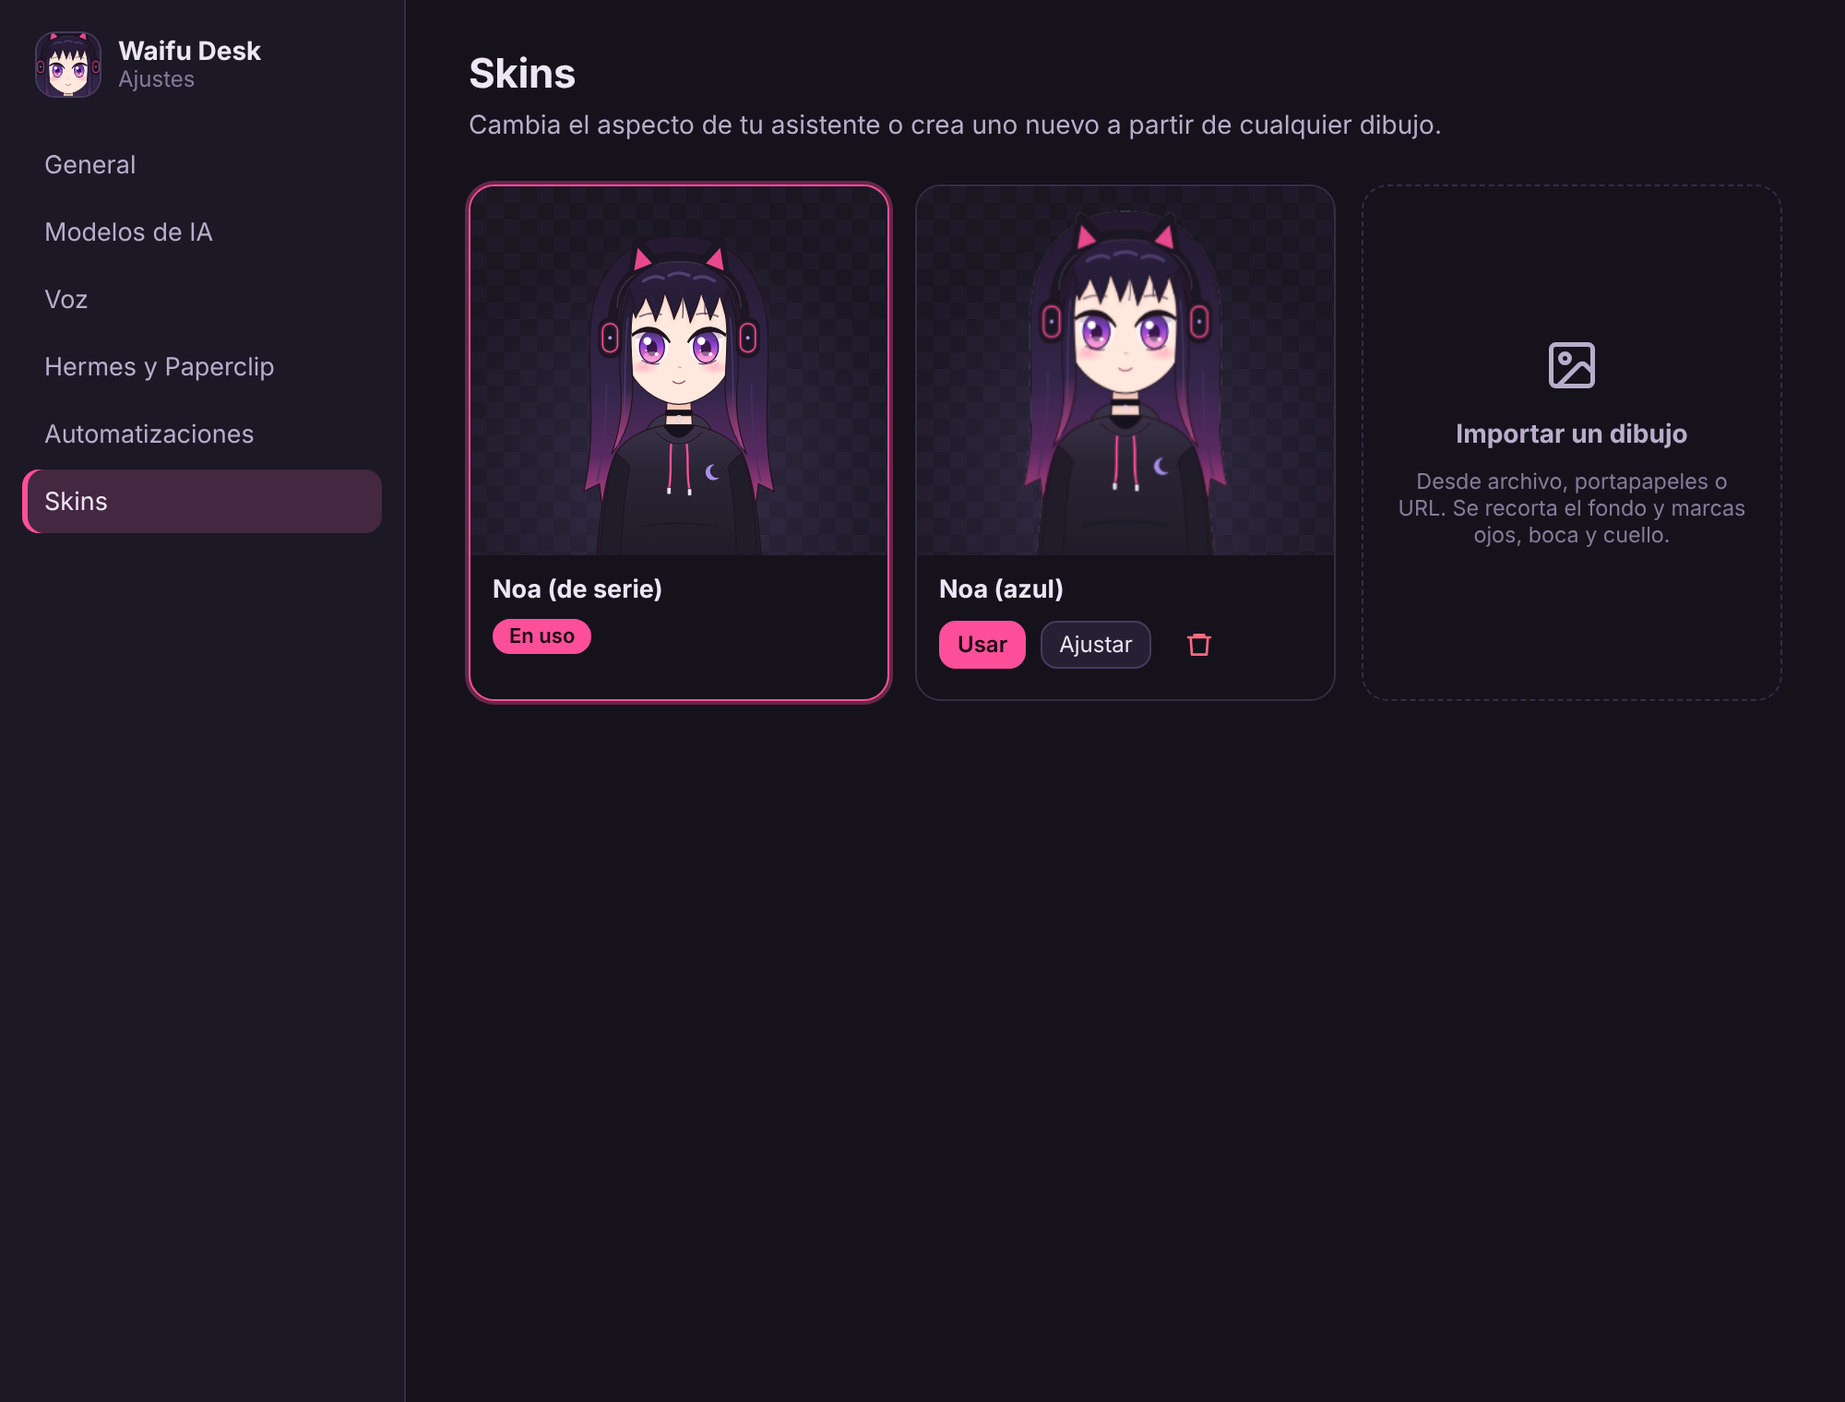
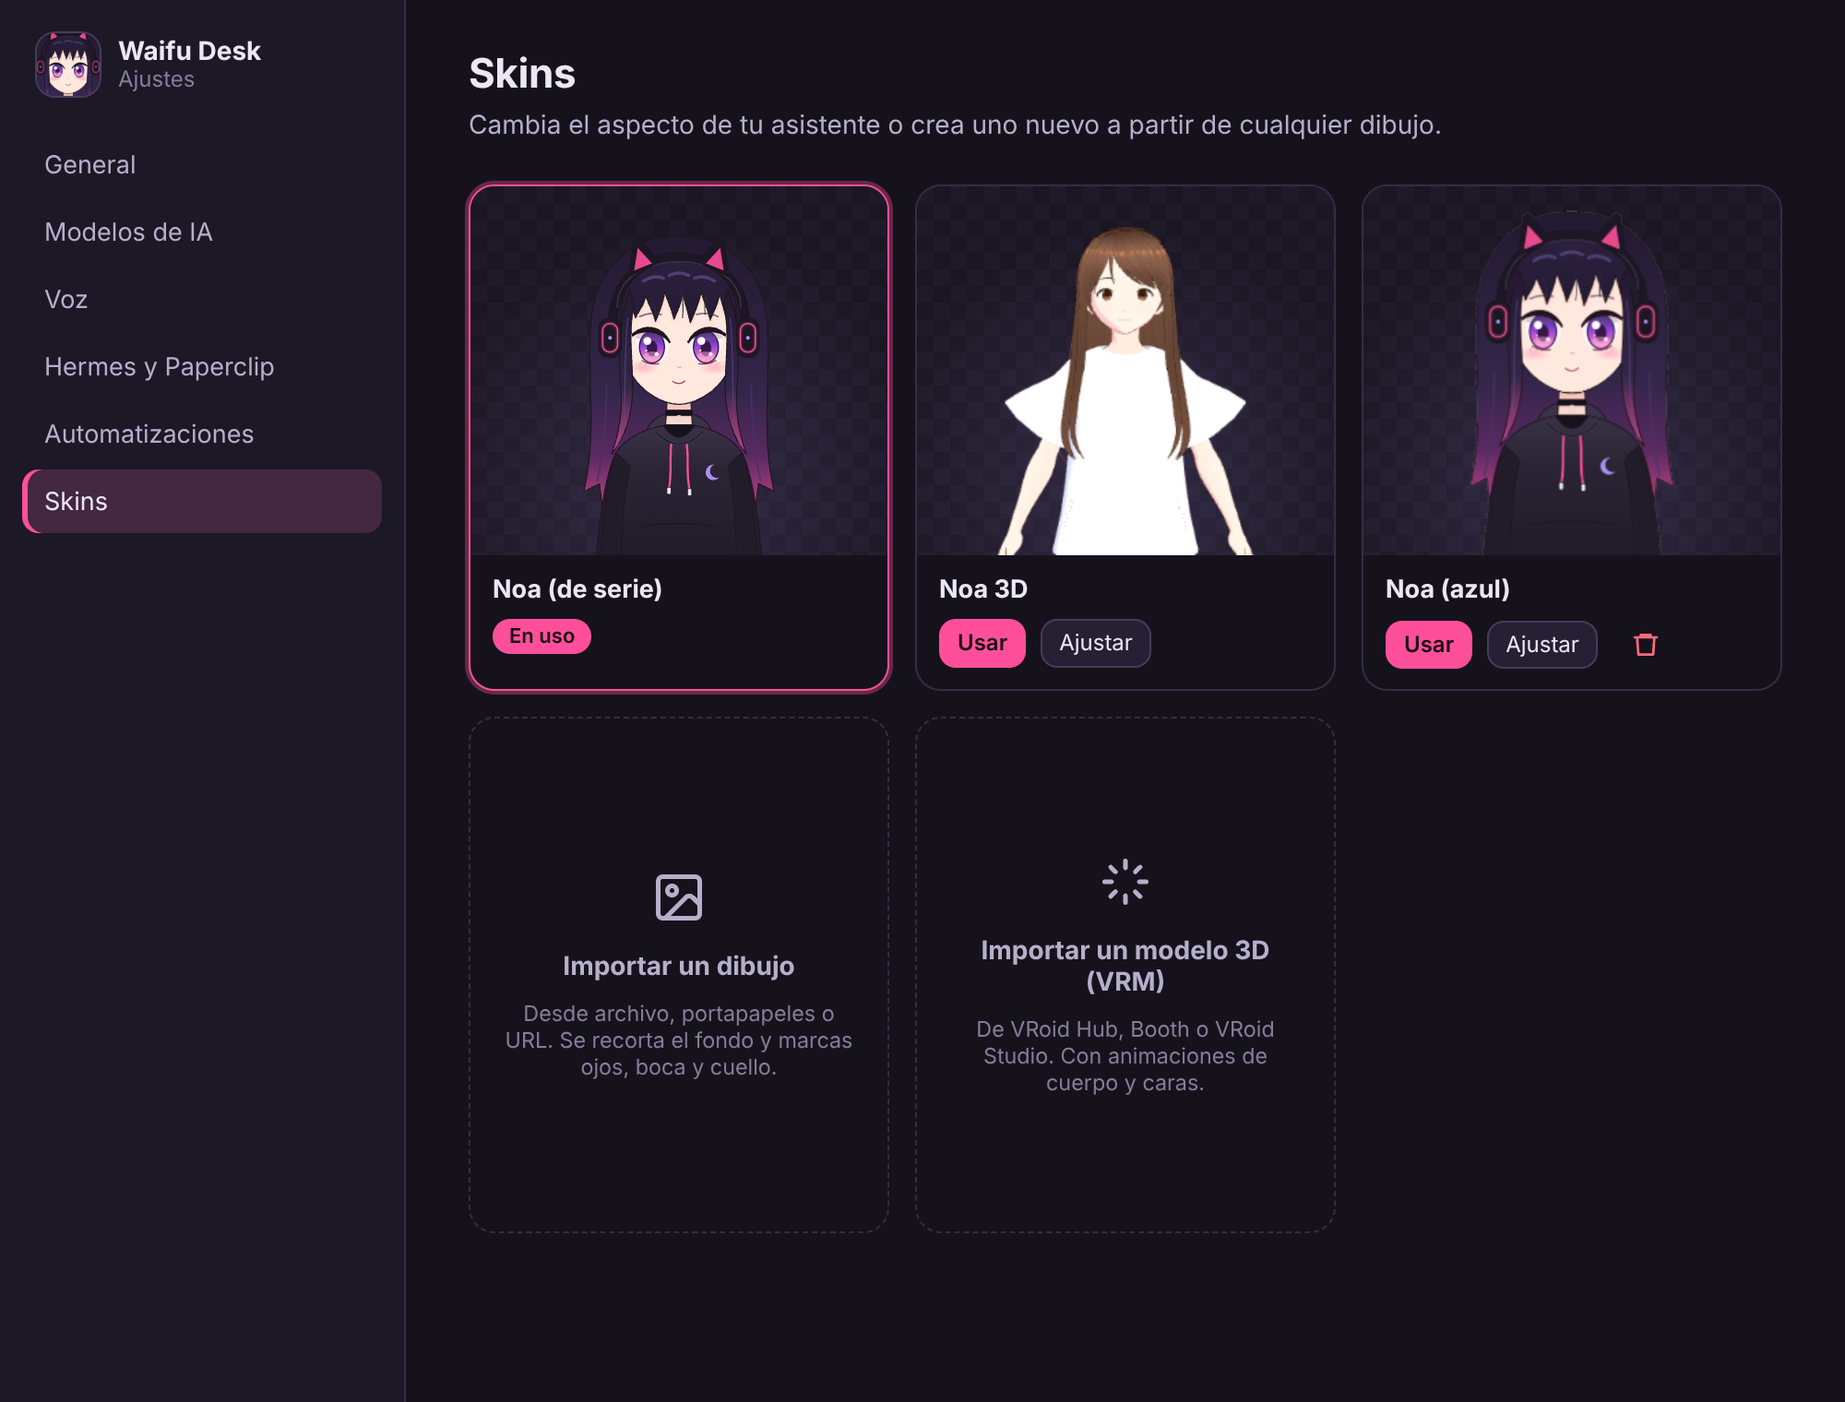
docs: skins 3D en el README, capturas nuevas y pose de hablar más natural
Claude-Session: https://claude.ai/code/session_01F2Gs7FXqzLU8e6K14pGYTk

diff --git a/src/renderer/shared/vrm/clips/gestures.js b/src/renderer/shared/vrm/clips/gestures.js
@@ -4,8 +4,8 @@ export const talk1 = {
   duration: 2.2,
   loop: false,
   bones: {
-    rightUpperArm: [[0, 0, 10, -4], [0.6, 20, 35, -12], [1.6, 20, 33, -10], [2.2, 0, 10, -4]],
-    rightLowerArm: [[0, 0, 35, 0], [0.6, -50, 75, 0], [1.1, -35, 65, 0], [1.6, -50, 75, 0], [2.2, 0, 35, 0]],
+    rightUpperArm: [[0, 25, 10, 6], [0.6, 20, 35, -12], [1.6, 20, 33, -10], [2.2, 25, 10, 6]],
+    rightLowerArm: [[0, 0, 50, 0], [0.6, -50, 75, 0], [1.1, -35, 65, 0], [1.6, -50, 75, 0], [2.2, 0, 50, 0]],
     rightHand: [[0, 0, 0, 0], [0.6, 0, 0, -15], [1.6, 0, 0, -10], [2.2, 0, 0, 0]],
   },
 };
@@ -15,10 +15,10 @@ export const talk2 = {
   duration: 2.4,
   loop: false,
   bones: {
-    leftUpperArm: [[0, 0, -10, 4], [0.7, 0, -28, 14], [1.7, 0, -26, 12], [2.4, 0, -10, 4]],
-    rightUpperArm: [[0, 0, 10, -4], [0.7, 0, 28, -14], [1.7, 0, 26, -12], [2.4, 0, 10, -4]],
-    leftLowerArm: [[0, 0, -35, 0], [0.7, -50, -60, 0], [1.7, -45, -58, 0], [2.4, 0, -35, 0]],
-    rightLowerArm: [[0, 0, 35, 0], [0.7, -50, 60, 0], [1.7, -45, 58, 0], [2.4, 0, 35, 0]],
+    leftUpperArm: [[0, 25, -10, -6], [0.7, 0, -28, 14], [1.7, 0, -26, 12], [2.4, 25, -10, -6]],
+    rightUpperArm: [[0, 25, 10, 6], [0.7, 0, 28, -14], [1.7, 0, 26, -12], [2.4, 25, 10, 6]],
+    leftLowerArm: [[0, 0, -50, 0], [0.7, -50, -60, 0], [1.7, -45, -58, 0], [2.4, 0, -50, 0]],
+    rightLowerArm: [[0, 0, 50, 0], [0.7, -50, 60, 0], [1.7, -45, 58, 0], [2.4, 0, 50, 0]],
   },
 };
 
@@ -27,8 +27,8 @@ export const talk3 = {
   duration: 2.2,
   loop: false,
   bones: {
-    leftUpperArm: [[0, 0, -10, 4], [0.6, 20, -35, 12], [1.6, 20, -33, 10], [2.2, 0, -10, 4]],
-    leftLowerArm: [[0, 0, -35, 0], [0.6, -50, -75, 0], [1.1, -35, -65, 0], [1.6, -50, -75, 0], [2.2, 0, -35, 0]],
+    leftUpperArm: [[0, 25, -10, -6], [0.6, 20, -35, 12], [1.6, 20, -33, 10], [2.2, 25, -10, -6]],
+    leftLowerArm: [[0, 0, -50, 0], [0.6, -50, -75, 0], [1.1, -35, -65, 0], [1.6, -50, -75, 0], [2.2, 0, -50, 0]],
     leftHand: [[0, 0, 0, 0], [0.6, 0, 0, 15], [1.6, 0, 0, 10], [2.2, 0, 0, 0]],
     spine: [[0, 2, 0, 0], [0.8, 2, -3, 0], [2.2, 2, 0, 0]],
   },

diff --git a/src/renderer/shared/vrm/clips/states.js b/src/renderer/shared/vrm/clips/states.js
@@ -44,16 +44,16 @@ export const working = {
   },
 };
 
-// Hablando: postura abierta (los gestos van encima).
+// Hablando: manos relajadas por delante, a la altura de la cintura (los gestos van encima).
 export const talking = {
   name: 'talking',
   duration: 3,
   loop: true,
   bones: {
     spine: [[0, 2, 0, 0], [1.5, 2, 2, 0.5], [3, 2, 0, 0]],
-    leftUpperArm: [[0, 0, -10, 4], [1.5, 0, -12, 5], [3, 0, -10, 4]],
-    rightUpperArm: [[0, 0, 10, -4], [1.5, 0, 12, -5], [3, 0, 10, -4]],
-    leftLowerArm: [[0, 0, -35, 0], [1.5, 0, -40, 0], [3, 0, -35, 0]],
-    rightLowerArm: [[0, 0, 35, 0], [1.5, 0, 40, 0], [3, 0, 35, 0]],
+    leftUpperArm: [[0, 25, -10, -6], [1.5, 25, -12, -5], [3, 25, -10, -6]],
+    rightUpperArm: [[0, 25, 10, 6], [1.5, 25, 12, 5], [3, 25, 10, 6]],
+    leftLowerArm: [[0, 0, -50, 0], [1.5, 0, -55, 0], [3, 0, -50, 0]],
+    rightLowerArm: [[0, 0, 50, 0], [1.5, 0, 55, 0], [3, 0, 50, 0]],
   },
 };

diff --git a/README.md b/README.md
@@ -29,8 +29,11 @@ Español · [English](README.en.md) — la app está en español, inglés, ruso,
 - **Paperclip**: lista agentes y proyectos, crea, asigna y comenta tareas, y despierta agentes.
 - **Automatizaciones**: webhooks (n8n, Make, Home Assistant…), cualquier servidor **MCP** y comandos en tu PC,
   estos siempre con tu aprobación.
-- **Skins**: le das cualquier dibujo y recorta el fondo con un modelo de IA para anime, en local. Coloca sola
+- **Skins 2D**: le das cualquier dibujo y recorta el fondo con un modelo de IA para anime, en local. Coloca sola
   ojos, boca y cuello, y tú los ajustas con la vista previa animada.
+- **Skins 3D (VRM)**: importa modelos de VRoid Hub, Booth o VRoid Studio. Se mueve según lo que hace (piensa con
+  la mano en la barbilla, teclea, saluda, gesticula al hablar), pone caras según el tono de la respuesta y
+  puedes añadirle movimientos `.vrma` o de Mixamo.
 - **Cinco idiomas**: español, English, Русский, Українська y 中文. Coge el del sistema y se cambia al vuelo.
 
 ## Descargar
@@ -84,6 +87,10 @@ Los atajos se cambian en Ajustes → General.
 
 ![Estados del avatar](docs/screenshots/states.jpg)
 
+**Skin 3D (VRM)**: reposo, pensando, trabajando, hablando y dos caras que pone según el tono de la respuesta.
+
+![Estados de la skin 3D](docs/screenshots/states-3d.jpg)
+
 **La misma petición en los cinco idiomas.** La interfaz y la respuesta siguen al idioma elegido.
 
 ![Chat en español, inglés, ruso, ucraniano y chino](docs/screenshots/languages.jpg)
@@ -106,6 +113,10 @@ Los atajos se cambian en Ajustes → General.
 **Editor de skins**: recorte del fondo, marcadores de ojos, boca y cuello, y vista previa animada.
 
 ![Editor de skins](docs/screenshots/skin-editor.png)
+
+**Editor 3D**: licencia del modelo, encuadre, prueba de estados, caras y gestos, y movimientos importados.
+
+![Editor de skins 3D](docs/screenshots/vrm-editor.png)
 
 Las capturas se generan con la app de verdad y un servidor simulado: `npm run screenshots` (ver
 [Desarrollo](#desarrollo)).
@@ -272,6 +283,34 @@ efectos automáticos. `names` es opcional y traduce el nombre:
 
 La skin de serie (Noa) está hecha así y se genera con `npm run skin:default`.
 
+## Skins 3D (VRM)
+
+Ajustes → Skins → **Importar un modelo 3D (VRM)** (o clic derecho en Noa → Skin → Importar modelo 3D):
+
+1. **Modelo**: un archivo `.vrm` (VRM 0.x o 1.0) o el enlace directo a uno. Sitios para conseguirlos:
+   [VRoid Hub](https://hub.vroid.com) (los que permiten descarga), [Booth](https://booth.pm) o hazte el tuyo
+   gratis con [VRoid Studio](https://vroid.com/studio). Hasta 150 MB.
+2. **Licencia**: la app enseña lo que declaró la autoría del modelo (quién puede usarlo, uso comercial,
+   redistribución, modificación, crédito). **Úsalo solo como permite.**
+3. **Encuadre**: cuerpo entero, medio cuerpo o busto, con zoom, giro, ángulo de cámara y altura. La ventana de la
+   waifu toma la forma del encuadre.
+4. **Pruébala**: estados (reposo, pensando, escuchando, trabajando, hablando), caras y saludo.
+5. **Movimientos**: importa animaciones `.vrma` (por ejemplo, el pack gratuito de VRoid en Booth) o `.fbx` de
+   [Mixamo](https://www.mixamo.com) (descarga «Without Skin») y asígnalas a un estado o gesto. Valen para todas
+   las skins 3D; si no asignas nada, usa los movimientos de serie.
+6. **Guardar y usar**.
+
+**Caras según la IA**: el modelo marca el tono con etiquetas ocultas (`<emo:happy>`, `<emo:sad>`…) que la app
+quita del texto y convierte en expresiones. Se desactiva en Ajustes → General → «Pone caras según el tono de la
+IA».
+
+La skin 3D de serie, **Noa 3D**, es la chica de ejemplo de pixiv del repositorio
+[three-vrm](https://github.com/pixiv/three-vrm) (VRM 1.0, permite redistribuirla y modificarla sin pedir
+crédito; ver [`assets/skins/noa-3d/LICENSE.txt`](assets/skins/noa-3d/LICENSE.txt)).
+
+El 3D necesita GPU: sin aceleración (máquinas virtuales, escritorio remoto) va a pocos fotogramas por segundo y
+es mejor usar una skin 2D.
+
 ---
 
 ## Desarrollo
@@ -322,17 +361,24 @@ src/
     llm/           adaptadores Anthropic y OpenAI-compatible (streaming + tool use) y bucle de agente
     tools/         herramientas: básicas, Hermes, Paperclip, webhooks, cliente MCP
     voice.js       transcripción, síntesis y troceado en frases
-    skins.js       skins y descarga del modelo de recorte
+    skins.js       skins (2D y VRM) y descarga del modelo de recorte
+    vrm-files.js   comprobación de archivos VRM y de su licencia
+    motions.js     biblioteca de movimientos importados (.vrma, .fbx)
     log.js         registro de diagnóstico
   preload/         puente seguro (contextIsolation + sandbox)
   renderer/
     avatar/        ventana transparente con la waifu, micrófono y reproducción con lip-sync
     chat/          panel de chat
     settings/      ajustes
-    editor/        importador de skins (recorte IA, marcadores, vista previa)
-    shared/        renderizador WebGL2 con malla deformable (y respaldo 2D), animador, markdown
+    editor/        importador de skins 2D (recorte IA, marcadores, vista previa)
+    vrm-editor/    importador de skins 3D (licencia, encuadre, movimientos)
+    shared/        comportamiento del avatar (behaviour.js) y bucle (stage.js), renderizador 2D WebGL2
+                   con malla deformable (y respaldo 2D), markdown
+    shared/vrm/    renderizador VRM (three.js + three-vrm), encuadre, labios y mirada, animaciones
+                   propias (clips/), importación de .vrma y Mixamo
   shared/i18n/     traducciones (es, en, ru, uk, zh), compartidas por el proceso principal y las páginas
 assets/skins/default/   skin de serie en capas SVG
+assets/skins/noa-3d/    skin 3D de serie (VRM de ejemplo de pixiv)
 build/                  icono, instalador NSIS multilingüe y hook que pone icono y versión al .exe
 test/                   tests (node:test) con un stub de Electron
 tools/                  generador de la skin, prueba de humo, capturas y notas de release
@@ -341,8 +387,13 @@ tools/                  generador de la skin, prueba de humo, capturas y notas d
 
 - La ventana del avatar es transparente y deja pasar los clics fuera de la silueta (en Windows con reenvío del
   ratón; en Linux recortando la forma de la ventana).
-- La animación deforma una malla 40×N en la GPU: respiración, giro de cabeza alrededor del cuello y mandíbula;
-  parpadeo y boca por capas o con shaders.
+- `Behaviour` decide qué hace el avatar (respiración, parpadeo, boca, mirada, saltito, emoción) y cada
+  renderizador lo dibuja a su manera. En 2D se deforma una malla 40×N en la GPU (respiración, giro de cabeza
+  alrededor del cuello y mandíbula; parpadeo y boca por capas o con shaders). En 3D se mezclan el clip del
+  estado, los gestos y una capa procedural (mirada, respiración), y las expresiones del VRM hacen los labios,
+  el parpadeo y las caras.
+- three.js y three-vrm se sirven tal cual desde `node_modules` (sin bundler) con un *import map* autorizado por
+  hash en la CSP; `node tools/importmap.mjs <página.html>` lo añade a una página nueva.
 - El prompt de sistema y las descripciones de las herramientas van en inglés (todos los modelos lo entienden
   igual); la respuesta sale en el idioma elegido.
 - Una herramienta nueva es un objeto `{ name, description, schema, run }` en `src/main/tools/` registrado en
@@ -382,10 +433,13 @@ tools/                  generador de la skin, prueba de humo, capturas y notas d
 
 ## Privacidad
 
-Todo se guarda en tu carpeta de datos local: ajustes, claves cifradas, conversación y skins. La app solo se
-conecta a los servicios que configures, y a GitHub para descargar el modelo de recorte si lo pides.
+Todo se guarda en tu carpeta de datos local: ajustes, claves cifradas, conversación, skins y movimientos. La
+app solo se conecta a los servicios que configures, a GitHub para descargar el modelo de recorte si lo pides y
+a la URL de un modelo VRM si la pegas tú.
 
 ## Licencia
 
-[MIT](LICENSE) © mupsim. La skin de serie Noa es original de este proyecto. El modelo de recorte `isnet-anime`
+[MIT](LICENSE) © mupsim. La skin de serie Noa es original de este proyecto. Noa 3D es un modelo de ejemplo de
+pixiv Inc. ([licencia](assets/skins/noa-3d/LICENSE.txt)). Usa [three.js](https://threejs.org) y
+[three-vrm](https://github.com/pixiv/three-vrm) (MIT); el mapa de huesos de Mixamo viene de sus ejemplos. El modelo de recorte `isnet-anime`
 es Apache-2.0 y se descarga aparte. El plugin WinShell de NSIS está bajo licencia zlib ([build/nsis](build/nsis/README.md)).

diff --git a/README.en.md b/README.en.md
@@ -29,8 +29,11 @@ on your VPS, creates and assigns tasks to your Paperclip agents and runs your au
 - **Paperclip**: lists agents and projects, creates, assigns and comments on tasks, and wakes agents up.
 - **Automations**: webhooks (n8n, Make, Home Assistant…), any **MCP** server and commands on your PC, always
   with your approval.
-- **Skins**: give her any drawing and she cuts out the background with an anime-trained AI model, locally.
+- **2D skins**: give her any drawing and she cuts out the background with an anime-trained AI model, locally.
   Eyes, mouth and neck are placed automatically and you fine-tune them with a live animated preview.
+- **3D skins (VRM)**: import models from VRoid Hub, Booth or VRoid Studio. She moves according to what she's
+  doing (thinks with her hand on her chin, types, waves, gestures while talking), makes faces to match the tone
+  of the reply, and you can add `.vrma` or Mixamo motions.
 - **Five languages**: Español, English, Русский, Українська and 中文. Follows the system language and switches
   instantly.
 
@@ -79,6 +82,10 @@ free profile (Gemini or Groq) in **AI models → Add profile**.
 
 ![Avatar states](docs/screenshots/states.jpg)
 
+**3D skin (VRM)**: idle, thinking, working, talking and two faces she makes to match the tone of the reply.
+
+![3D skin states](docs/screenshots/states-3d.jpg)
+
 **The same request in all five languages.** Both the interface and the reply follow the chosen language.
 
 ![Chat in Spanish, English, Russian, Ukrainian and Chinese](docs/screenshots/languages.jpg)
@@ -99,6 +106,8 @@ free profile (Gemini or Groq) in **AI models → Add profile**.
 </table>
 
 ![Skin editor](docs/screenshots/skin-editor.png)
+
+![3D skin editor](docs/screenshots/vrm-editor.png)
 
 (The settings screenshots are in Spanish; switch the language in Settings → General.)
 
@@ -127,6 +136,29 @@ missing, and `npm run smoke` walks every window looking for untranslated strings
 - **Webhooks and MCP**: each webhook becomes a `webhook_<name>` tool (the description is what the AI reads);
   MCP servers can be stdio or Streamable HTTP.
 - **Commands** (`run_command`): PowerShell on Windows, bash on Linux; every command needs your explicit approval.
+
+## 3D skins (VRM)
+
+Settings → Skins → **Import a 3D model (VRM)** (or right-click Noa → Skin → Import 3D model):
+
+1. **Model**: a `.vrm` file (VRM 0.x or 1.0) or a direct link to one, up to 150 MB. Get them from
+   [VRoid Hub](https://hub.vroid.com) (downloadable ones), [Booth](https://booth.pm), or make your own for free
+   with [VRoid Studio](https://vroid.com/studio).
+2. **License**: the app shows what the model's author declared (who may use it, commercial use, redistribution,
+   modification, credit). **Only use it as it allows.**
+3. **Framing**: full body, half body or bust, with zoom, turn, camera angle and height.
+4. **Try her out**: states, faces and a wave.
+5. **Motions**: import `.vrma` animations or Mixamo `.fbx` files ("Without Skin") and assign them to a state or
+   gesture. They apply to every 3D skin; anything unassigned uses the built-in motions.
+6. **Save and use**.
+
+**Faces from the AI**: the model marks its tone with hidden tags (`<emo:happy>`, `<emo:sad>`…) that the app
+strips from the text and turns into expressions. Turn it off in Settings → General.
+
+The built-in 3D skin, **Noa 3D**, is pixiv's sample girl from the [three-vrm](https://github.com/pixiv/three-vrm)
+repository (VRM 1.0, redistribution and modification allowed, no credit required; see
+[`assets/skins/noa-3d/LICENSE.txt`](assets/skins/noa-3d/LICENSE.txt)). 3D needs a GPU: without acceleration
+(virtual machines, remote desktop) it runs at a few frames per second, so use a 2D skin there.
 
 The [Spanish README](README.md) has the full guide (nginx config, Paperclip CLI, voice providers, layered skins).
 
@@ -158,4 +190,5 @@ suffix (`0.3.0-beta.1`) are published as pre-releases.
 
 ## Licence
 
-[MIT](LICENSE) © mupsim.
+[MIT](LICENSE) © mupsim. Noa 3D is a sample model by pixiv Inc. ([licence](assets/skins/noa-3d/LICENSE.txt)).
+Built with [three.js](https://threejs.org) and [three-vrm](https://github.com/pixiv/three-vrm) (MIT).

diff --git a/docs/superpowers/specs/2026-10-22-avatares-3d-vrm-design.md b/docs/superpowers/specs/2026-10-22-avatares-3d-vrm-design.md
@@ -1,7 +1,7 @@
 # Avatares 3D (VRM) — diseño
 
 - Fecha: 22-oct-2026
-- Estado: aprobado en conversación, pendiente de revisión escrita
+- Estado: implementado en 0.3.0 (ver «Desviaciones durante la implementación» al final)
 - Versión objetivo: 0.3.0
 
 ## 1. Objetivo
@@ -282,3 +282,17 @@ Cada fase deja la app funcionando y con los tests en verde:
 - **WebGL en CI**: el smoke corre con Xvfb y SwiftShader. Si three.js no consigue contexto WebGL2 en el runner de Windows o Linux, el caso 3D del smoke se marca como omitido en ese runner (con aviso en el log) y la verificación visual se hace en local con capturas.
 - **Calidad de las animaciones propias**: escritas a mano como datos. Se iteran con renders; si alguna no queda natural, se simplifica antes que entregarla rara.
 - **Variedad de modelos VRM**: proporciones, expresiones y materiales cambian mucho entre modelos. Se prueba con al menos tres modelos distintos (dos CC0 de VRoid y uno VRM 1.0).
+
+## 11. Desviaciones durante la implementación
+
+- **Skin 3D de serie**: no se pudo descargar ninguna de las modelos CC0 de VRoid (OpenGameArt bloqueado desde el
+  entorno de trabajo). Se usa `VRM1_Constraint_Twist_Sample.vrm` del repositorio pixiv/three-vrm (pixiv Inc.,
+  VRM 1.0, `allowRedistribution: true`, `modification: allowModificationRedistribution`,
+  `creditNotation: unnecessary`) con el nombre «Noa 3D».
+- **Editor 3D**: es una ventana propia (`vrm-editor`) en vez de una pestaña del editor 2D; se abre desde
+  Ajustes → Skins, desde «Ajustar» en una skin VRM y desde el menú del avatar. Las skins de serie se guardan
+  como copia propia. No admite arrastrar archivos (en una página con sandbox no hay ruta del archivo).
+- **Suceso `done`**: da el saltito procedural; el gesto `happy` solo sale con la emoción `happy`.
+- **Encuadre `half`**: factor de ancho 2,8 (no 2,4) tras ver las capturas, para no cortar los brazos.
+- **Movimientos**: la asignación es global (`motions.assign`) para todas las skins 3D, como decía §4.2.
+- **Rendimiento sin GPU**: con SwiftShader cada fotograma VRM cuesta ~230 ms; el smoke solo lo registra.
